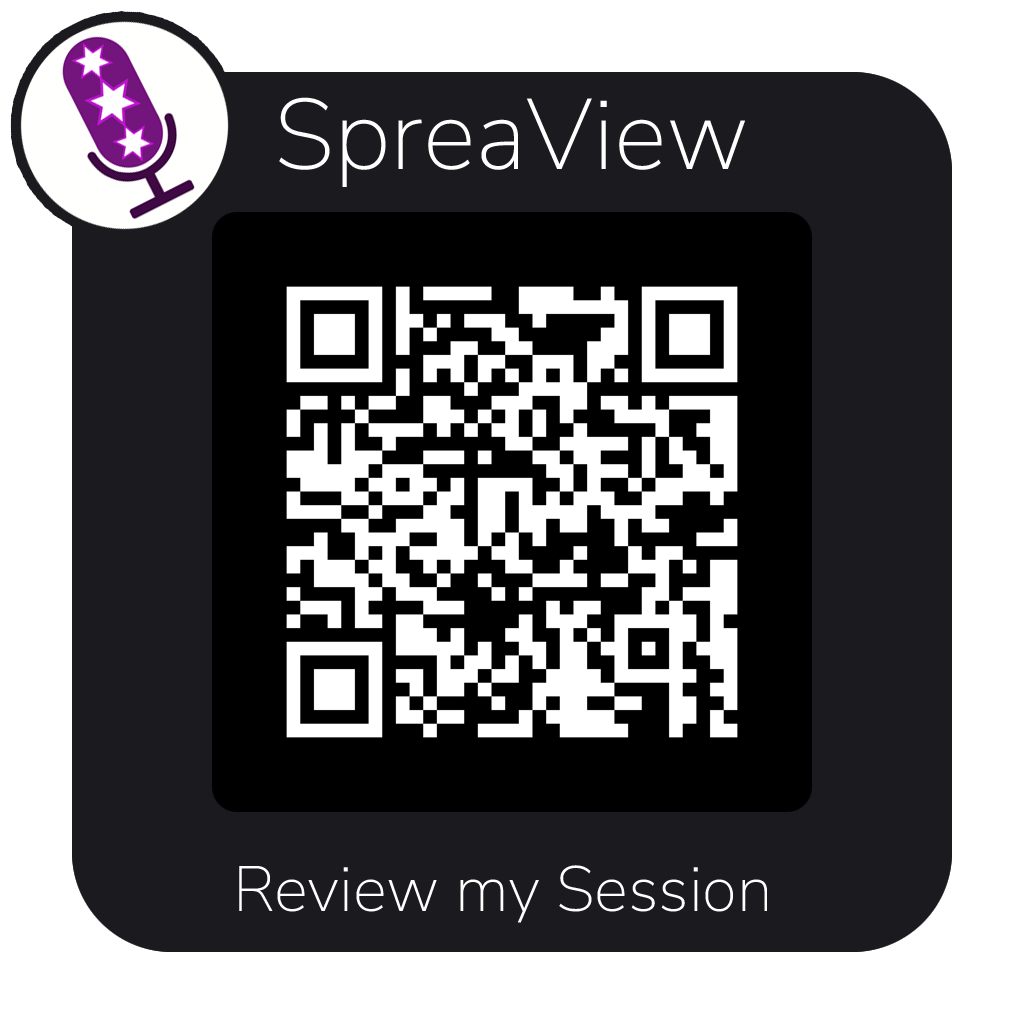
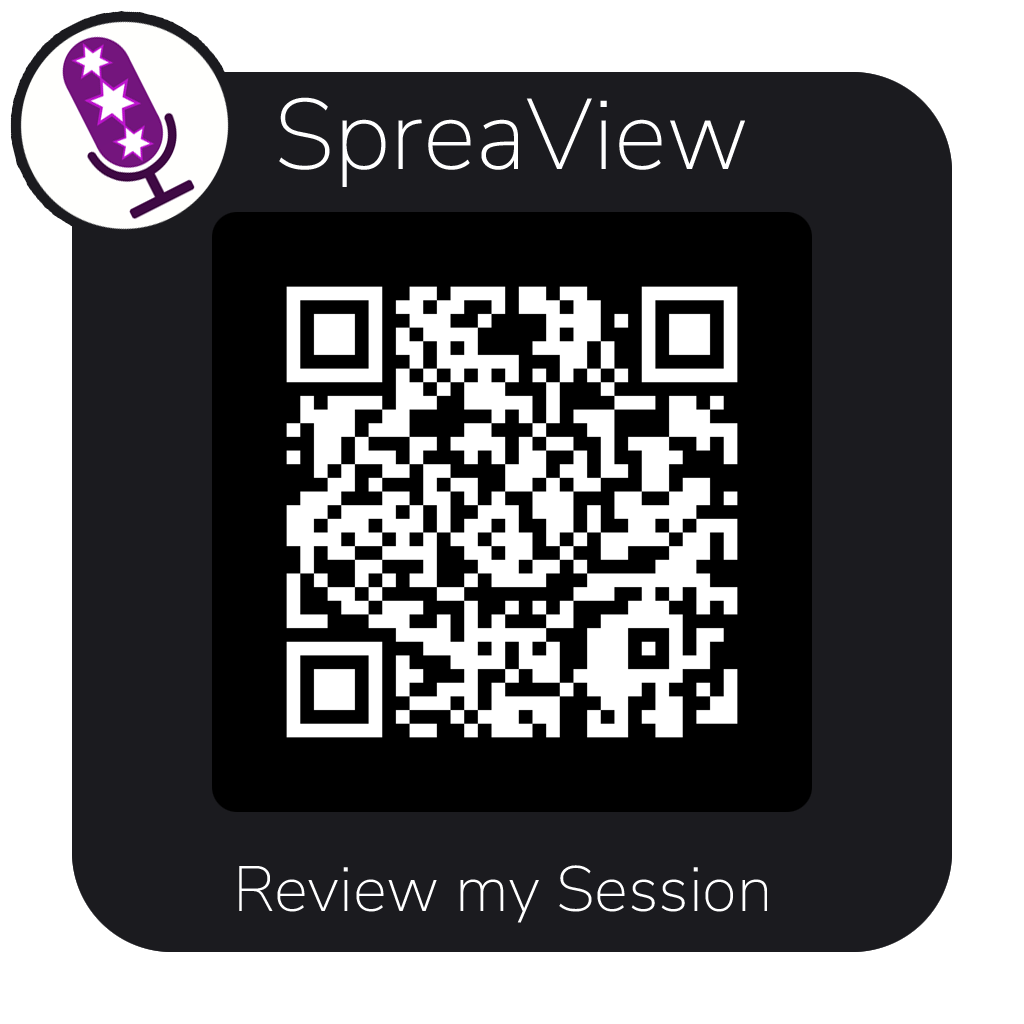
feat: Update presentation slides with new content and QR code for feedback

Changed region(s): [[0.2812, 0.2812, 0.7188, 0.7188]]

diff --git a/slides/Slides.md b/slides/Slides.md
@@ -4,15 +4,21 @@ theme: custom-default
 footer: '@Chris_L_Ayers - https://chris-ayers.com'
 ---
 
-<!-- _footer: 'https://github.com/codebytes/build-with-aspire' -->
+![bg](./img/aspire_title.png)
 
-# Building Smarter .NET Apps with Aspire, Azure OpenAI, and Ollama
+---
+
+<!--
+
+# Aspiring .NET with OpenAI and Ollama
 
 ## Chris Ayers
 
 ![bg right](./img/dotnet-logo.png)
 
 ---
+
+-->
 
 ![bg left:40%](./img/portrait.png)
 
@@ -377,43 +383,6 @@ public class ExampleService(IChatClient chatClient)
 
 ---
 
-# Azure Deployment
-
-<div class="columns">
-<div>
-
-## Targets
-
-- Azure App Service
-- Azure Container Apps
-- Kubernetes
-
-## Azure Developer CLI
-
-```bash
-azd up         # Deploy everything
-azd deploy     # App only
-azd provision  # Infrastructure only
-azd init       # Initialize
-```
-
-</div>
-<div>
-
-## Features
-
-- Auto-detects app structure
-- Environment variable mapping
-- Native Aspire support
-- Credential providers
-- Key Vault integration
-- Secure access
-
-</div>
-</div>
-
----
-
 # What's New in .NET Aspire 9.5
 
 <div class="columns">
@@ -487,52 +456,37 @@ aspire exec
 
 ---
 
-# AI Integration Examples
+# Azure Deployment
 
 <div class="columns">
 <div>
 
-## GitHub Models
+## Targets
 
-```csharp
-var chat = builder.AddGitHubModel("chat",
-    "openai/gpt-4o-mini");
+- Azure App Service
+- Azure Container Apps
+- Kubernetes
 
-builder.AddProject<Projects.ChatService>("chatservice")
-    .WithReference(chat);
-```
+## Azure Developer CLI
 
-## Azure AI Foundry (Cloud)
-
-```csharp
-var foundry = builder.AddAzureAIFoundry("foundry");
-
-var chat = foundry.AddDeployment("chat",
-    "Phi-4", "1", "Microsoft");
-
-builder.AddProject<Projects.Web>("web")
-    .WithReference(chat)
-    .WaitFor(chat);
+```bash
+azd up         # Deploy everything
+azd deploy     # App only
+azd provision  # Infrastructure only
+azd init       # Initialize
 ```
 
 </div>
 <div>
 
-## Azure AI Foundry (Local)
+## Features
 
-```csharp
-var foundry = builder.AddAzureAIFoundry("foundry")
-    .RunAsFoundryLocal();
-
-var chat = foundry.AddDeployment("chat",
-    "phi-3.5-mini", "1", "Microsoft");
-
-builder.AddProject<Projects.Web>("web")
-    .WithReference(chat)
-    .WaitFor(chat);
-```
-
-**Benefits**: Privacy, performance, offline operation, cost reduction
+- Auto-detects app structure
+- Environment variable mapping
+- Native Aspire support
+- Credential providers
+- Key Vault integration
+- Secure access
 
 </div>
 </div>
@@ -622,3 +576,10 @@ var api = builder.AddProject<Projects.Api>("api")
   import mermaid from 'https://cdn.jsdelivr.net/npm/mermaid@10/dist/mermaid.esm.min.mjs';
   mermaid.initialize({ startOnLoad: true });
 </script>
+
+---
+
+# Feedback
+
+![bg fit](./img/aspiring_net_with_azure_open_ai_and_ollama-qr-code.png)
+
